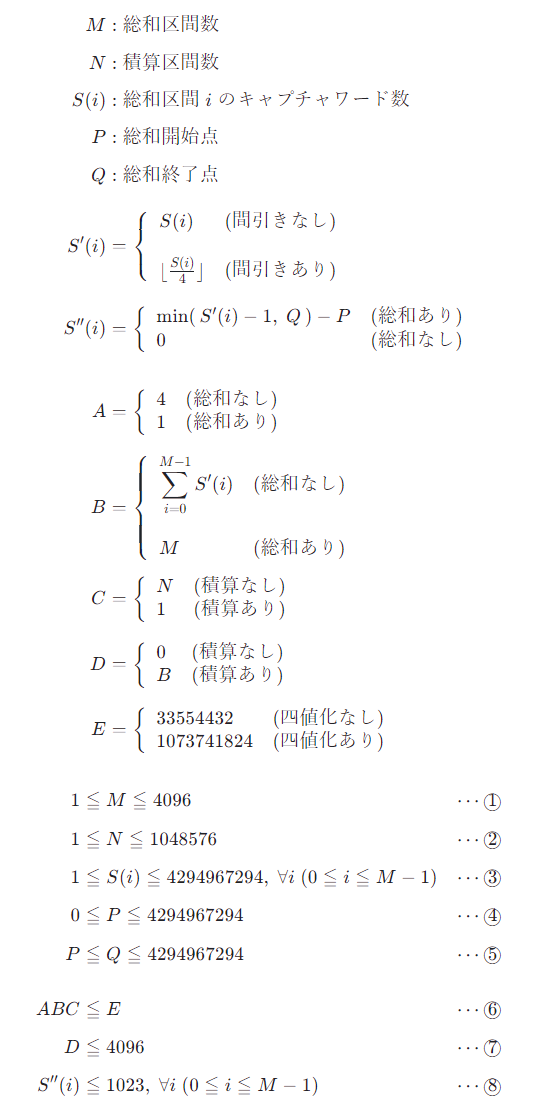
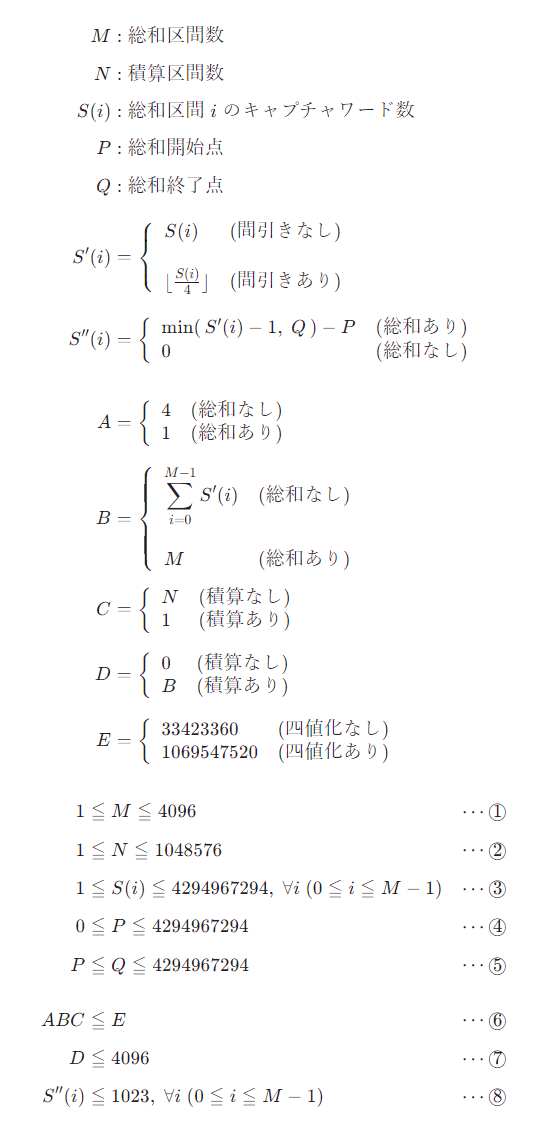
udpate a manual

diff --git a/manuals/README.md b/manuals/README.md
@@ -408,8 +408,8 @@ D &= \left\{
 
 E &= \left\{
 \begin{array}{ll}
-  33554432 & (四値化なし)\\
-  1073741824 & (四値化あり)\\
+  33423360 & (四値化なし)\\
+  1069547520 & (四値化あり)\\
 \end{array}
 \right. \\[3ex]
 
